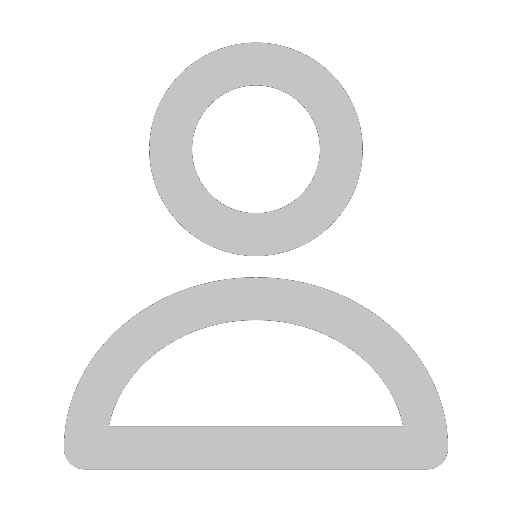
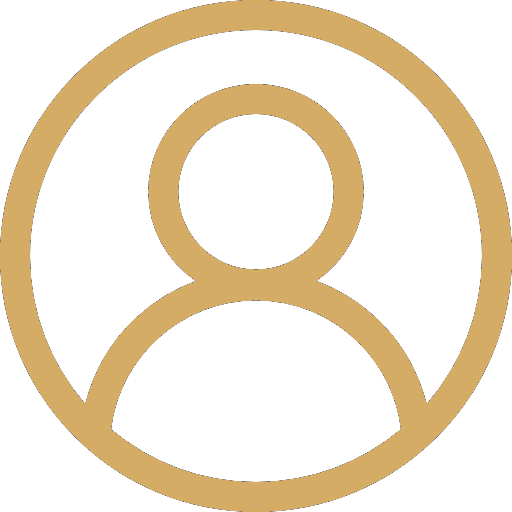
felhasznalo adatok

diff --git a/CsokiBet/BetMenu.xaml b/CsokiBet/BetMenu.xaml
@@ -175,27 +175,41 @@
         <Border Grid.Row="0" Grid.ColumnSpan="3" Background="#1F493F">
             <StackPanel Orientation="Horizontal" VerticalAlignment="Center" HorizontalAlignment="Left">
                 <Image Source="images/csokibetlogo.png" Width="100" Height="100" Margin="0,0,0,-3"/>
-                <Button Content="Home" Foreground="White" Background="Transparent" BorderBrush="Transparent" FontSize="16"/>
-                <Button Content="My Wallet" Foreground="White" Background="Transparent" BorderBrush="Transparent" FontSize="16"/>
-                <Button x:Name="btnLogOut" Content="Log Out" Foreground="White" Background="Transparent" BorderBrush="Transparent" FontSize="16" Click="btnLogOut_Click"/>
-                <Button x:Name="SettingsButton" Content="Settings" Background="DarkSlateGray" Foreground="White" Padding="10,5" Margin="10,0" Click="SettingsButton_Click"/>
-                <Button x:Name="btnAdmin" Content="Admin panel" Foreground="White" Background="Transparent" BorderBrush="Transparent" FontSize="16" Visibility="Collapsed" Click="btnAdmin_Click"/>
-                <Button x:Name="btnOrganizer" Content="Szervező panel" Foreground="White" Background="Transparent" BorderBrush="Transparent" FontSize="16" Visibility="Collapsed" Click="btnOrganizer_Click"/>
+                <Button Content="Főoldal" Foreground="White" Background="DarkSlateGray" FontSize="16" Click="Button_Click_2"/>
+                <Button x:Name="btnLogOut" Content="Kijelentkezés" Foreground="White" Background="DarkSlateGray" Margin="10,0,0,0"  FontSize="16" Click="btnLogOut_Click"/>
+                <Button x:Name="SettingsButton" Content="Beállítások" Background="DarkSlateGray" Foreground="White" Margin="10,0" Click="SettingsButton_Click"/>
+                <Button x:Name="btnAdmin" Content="Admin panel" Foreground="White" Background="DarkSlateGray" Margin="10,0,0,0" FontSize="16" Visibility="Collapsed" Click="btnAdmin_Click"/>
+                <Button x:Name="btnOrganizer" Content="Szervező panel" Foreground="White" Background="DarkSlateGray" Margin="10,0,0,0"  FontSize="16" Visibility="Collapsed" Click="btnOrganizer_Click"/>
             </StackPanel>
         </Border>
 
         <!-- Left Sidebar for Sports List -->
         <Border Grid.Row="1" Grid.Column="0" Background="#1C3934" Padding="10">
             <StackPanel>
-                <TextBlock Text="Sports" Foreground="LightGray" FontSize="18" Margin="0,0,0,10"/>
-                <Border Background="#1F493F" CornerRadius="10">
-                    <ListBox Foreground="LightGray" BorderBrush="Transparent">
-                        <ListBoxItem Content="Football" Background="Transparent"/>
-                        <ListBoxItem Content="Basketball" Background="Transparent"/>
-                        <ListBoxItem Content="Tennis" Background="Transparent"/>
-                        <ListBoxItem Content="Cricket" Background="Transparent"/>
-                        <ListBoxItem Content="Hockey" Background="Transparent"/>
-                    </ListBox>
+                <TextBlock HorizontalAlignment="Center" Text="Felhasználó" Foreground="LightGray" FontSize="18" Margin="0,0,0,10"/>
+                <Border Background="#1F493F" CornerRadius="10" HorizontalAlignment="Center">
+                    <StackPanel HorizontalAlignment="Center" VerticalAlignment="Center">
+                        <!-- Nagy user ikon -->
+
+                                    <Image Margin="0,5,0,0" Width="50" Source="images/user_icon.png" />
+
+                        <!-- Felhasználónév -->
+                        <TextBlock x:Name="tbFelhasznalonev" Text="Felhasználónév" Foreground="LightGreen" FontSize="16" Margin="0,0,0,5" HorizontalAlignment="Center"/>
+                        <!-- Fogadások száma -->
+                        <StackPanel Orientation="Vertical">
+                            <TextBlock Text="Fogadások száma:" Foreground="White" FontSize="14"  HorizontalAlignment="Center"/>
+                            <TextBlock Foreground="LightGreen" HorizontalAlignment="Center" x:Name="tbFogadaszam" FontSize="14" Margin="0,0,0,5">20</TextBlock>
+                        </StackPanel>
+
+                        <StackPanel Margin="0,0,0,5" Orientation="Vertical">
+                            <TextBlock Text="Fogadott összeg:" Foreground="White" FontSize="14" Margin="0,0,0,5" HorizontalAlignment="Center"/>
+                            <StackPanel HorizontalAlignment="Center" Orientation="Horizontal">
+                                <TextBlock FontSize="14" Foreground="LightGreen">$</TextBlock>
+                                <TextBlock Foreground="LightGreen" HorizontalAlignment="Center" x:Name="tbFeltettpenz" FontSize="14">20</TextBlock>
+                            </StackPanel>
+                        </StackPanel>
+
+                    </StackPanel>
                 </Border>
             </StackPanel>
         </Border>
@@ -359,7 +373,7 @@
         <!-- Extra Settings Section from first XAML -->
         <Border x:Name="SettingsPanel" Background="#1C3934" Padding="10" Margin="5" Visibility="Collapsed" Grid.Row="1" Grid.Column="1">
             <StackPanel>
-                <TextBlock Text="Settings" FontSize="18" FontWeight="Bold" Foreground="LightGray" Margin="0,0,0,0"/>
+                <TextBlock Text="Beállítások" FontSize="18" FontWeight="Bold" Foreground="LightGray" Margin="0,0,0,0"/>
                 <TextBlock Text="Biztonság" Foreground="LightGray" FontWeight="Bold" Margin="0,5,0,0"/>
                 <Button Name="btnPassWordReset" Content="Jelszó módosítása" Background="Red" Foreground="White" Width="150px" HorizontalAlignment="Left" Click="btnPassWordReset_Click"/>
             </StackPanel>

diff --git a/CsokiBet/BetMenu.xaml.cs b/CsokiBet/BetMenu.xaml.cs
@@ -51,6 +51,65 @@ namespace CsokiBet
                 string email = Loadedemail;
                 string username = Loadedusername;
 
+                tbFelhasznalonev.Text = username;
+
+
+
+
+
+
+                string querybetinfo = @"
+                SELECT COUNT(b.BetsID) AS TotalBets, SUM(b.Amount) AS TotalAmount
+                FROM bettors u
+                INNER JOIN bets b ON u.BettorsID = b.BettorsID
+                WHERE u.Username = @Username;";
+
+                // Adatbázis kapcsolat létrehozása és lekérdezés végrehajtása
+                using (MySqlConnection connection = new MySqlConnection(connectionString))
+                {
+                    MySqlCommand command = new MySqlCommand(querybetinfo, connection);
+                    command.Parameters.AddWithValue("@Username", username);
+
+                    try
+                    {
+                        connection.Open();
+                        MySqlDataReader reader = command.ExecuteReader();
+
+                        if (reader.HasRows)
+                        {
+                            while (reader.Read())
+                            {
+                                // Lekért adatok
+                                int totalBets = reader.GetInt32(0);
+                                decimal totalAmount = reader.GetDecimal(1);
+
+                                // Eredmények megjelenítése a WPF UI-n (pl. TextBlock)
+                                tbFogadaszam.Text = $"{totalBets}";
+                                tbFeltettpenz.Text = $"{totalAmount}";
+                            }
+                        }
+                        else
+                        {
+                            MessageBox.Show("Nincs ilyen felhasználó.");
+                        }
+                        reader.Close();
+                    }
+                    catch (Exception ex)
+                    {
+                        MessageBox.Show("Hiba történt az adatbázis kapcsolat közben: " + ex.Message);
+                    }
+                }
+
+
+
+
+
+
+
+
+
+
+
                 using (MySqlConnection conn = new MySqlConnection(connectionString))
                 {
                     conn.Open();
@@ -89,6 +148,11 @@ namespace CsokiBet
             {
                 btnOrganizer.Visibility = Visibility.Visible;
             }
+
+
+          
+
+
         }
 
         private void LoadUsername()
@@ -383,6 +447,9 @@ namespace CsokiBet
                     WinningsTextBlock.Text = "0";
                     AmountTextBox.Tag = null;
                     BettingSection.Visibility = Visibility.Collapsed;
+
+                    tbFeltettpenz.Text = $"{int.Parse(tbFeltettpenz.Text) + betAmount}";
+                    tbFogadaszam.Text = $"{int.Parse(tbFogadaszam.Text)+1}";
                 }
                 else
                 {
@@ -537,6 +604,11 @@ namespace CsokiBet
             EgyenlegFeltoltes topup = new EgyenlegFeltoltes();
             topup.Show();
             this.Close();
+        }
+
+        private void Button_Click_2(object sender, RoutedEventArgs e)
+        {
+            SettingsPanel.Visibility = Visibility.Collapsed;
         }
     }
 }
